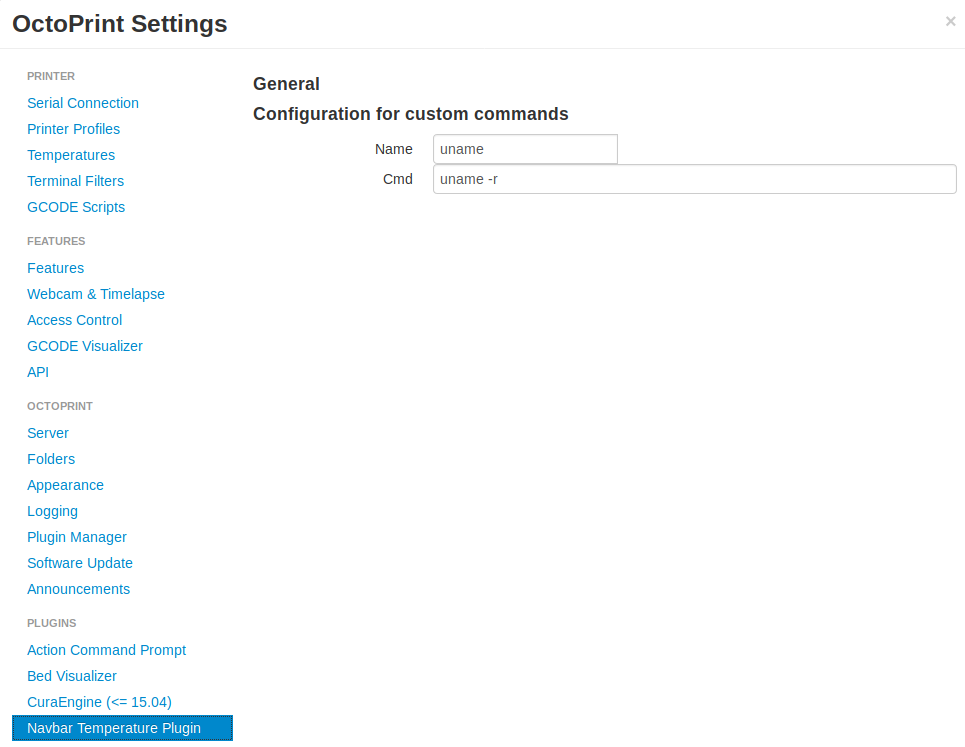
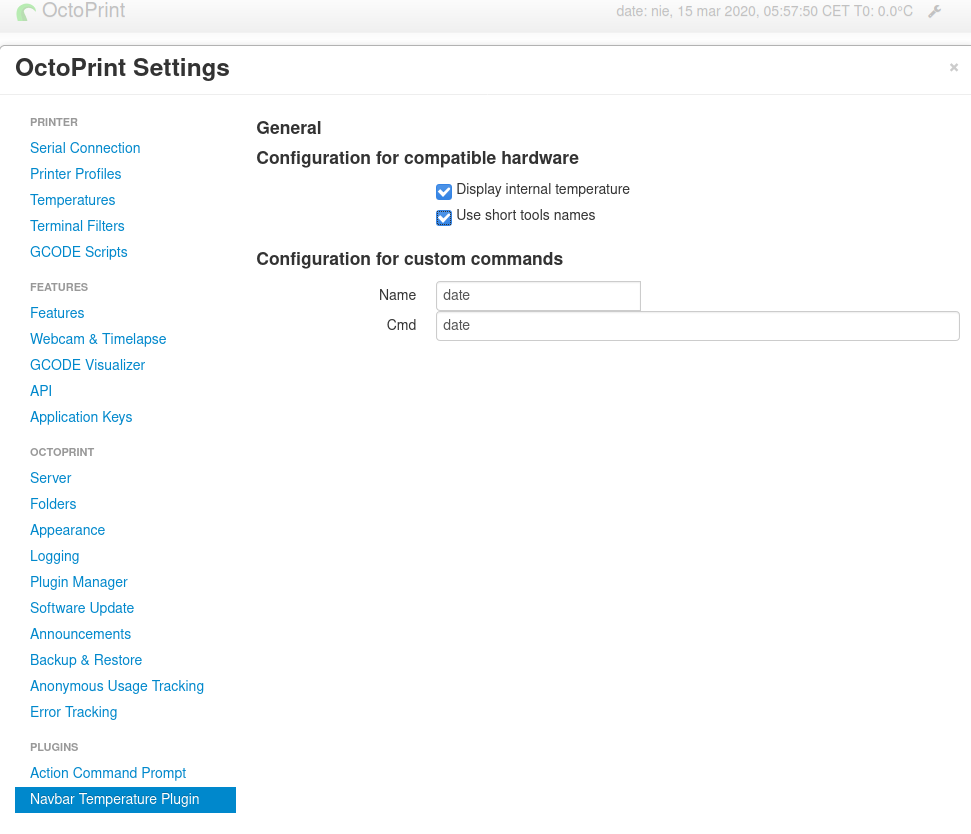
Updated img. improved debugging and display on navbar

diff --git a/octoprint_navbartemp/static/js/navbartemp.js b/octoprint_navbartemp/static/js/navbartemp.js
@@ -4,8 +4,8 @@ $(function() {
 
         self.temperatureModel = parameters[0];
         self.global_settings = parameters[1];
-        self.socTemp = ko.observable(null);
-        self.custCmd = ko.observable(null);
+        self.socTemp = ko.observable("");
+        self.custCmd = ko.observable("");
         /*
          * raspi and awinner should be combined into something like hasSoc in the python
          * source, there's no need for this part to know or care what the sbc is made of
@@ -19,16 +19,16 @@ $(function() {
 
         self.onBeforeBinding = function () {
             self.settings = self.global_settings.settings.plugins.navbartemp;
-            console.log(self.settings);
         };
 
         self.formatBarTemperature = function(toolName, actual, target) {
             if(self.settings.useShortNames()) {
                 var name = toolName.charAt(0);
+                if(name == 'T'){
+                name = 'E';
+                }
                 if(toolName.split(" ")[1]) {
                     name += toolName.split(" ")[1];
-                }else {
-                    name += "0";
                 }
             } else {
                 var name = toolName;
@@ -47,14 +47,14 @@ $(function() {
                 return;
             }
 
-            var output = ""
             if (data.soctemp) {
-                output = _.sprintf("SoC: %.1f&deg;C", data.soctemp);
+                self.socTemp(_.sprintf("SoC: %.1f&deg;C", data.soctemp));
             }
             if (data.cmd_name) {
-                output +=  _.sprintf(" %s: ", data.cmd_name) + _.sprintf("%s",data.cmd_result);
+                self.custCmd( _.sprintf(" %s: ", data.cmd_name) + _.sprintf("%s",data.cmd_result));
             }
-            self.socTemp(_.sprintf(output));
+
+
         };
 
     }

diff --git a/octoprint_navbartemp/__init__.py b/octoprint_navbartemp/__init__.py
@@ -44,11 +44,12 @@ class NavBarPlugin(octoprint.plugin.StartupPlugin,
                 self.sbc.debugMode = True
             if self.sbc.is_supported and self.displayRaspiTemp:
                 self._logger.debug("Let's start RepeatedTimer!")
-                self.startTimer(30.0)
+                interval = 5.0 if self.debugMode else 30.0
+                self.startTimer(interval)
 
         if self.cmd_name:
-            # self.updateCustom()
-            self._checkCmdTimer = RepeatedTimer(30.0, self.updateCustom, run_first=True)
+            interval = 5.0 if self.debugMode else 30.0
+            self._checkCmdTimer = RepeatedTimer(interval, self.updateCustom, run_first=True)
             self._checkCmdTimer.start()
 
         # debug mode doesn't work if the OS is linux on a regular pc
@@ -64,15 +65,14 @@ class NavBarPlugin(octoprint.plugin.StartupPlugin,
     def updateSoCTemp(self):
         temp = self.sbc.checkSoCTemp()
         self._logger.debug("match: %s" % temp)
-        cmd_rtv = self.getCustomResult()
         self._plugin_manager.send_plugin_message(self._identifier,
                                                  dict(isSupported=self.sbc.is_supported,
-                                                      soctemp=temp, cmd_result=cmd_rtv, cmd_name=self.cmd_name))
+                                                      soctemp=temp))
 
     def updateCustom(self):
         cmd_rtv = self.getCustomResult()
         self._plugin_manager.send_plugin_message(self._identifier,
-                                                 dict(isSupported=False, cmd_result=cmd_rtv, cmd_name=self.cmd_name))
+                                                 dict(cmd_result=cmd_rtv, cmd_name=self.cmd_name))
 
     def getCustomResult(self):
         cmd_rtv = None
@@ -89,7 +89,7 @@ class NavBarPlugin(octoprint.plugin.StartupPlugin,
     def get_settings_defaults(self):
         return dict(displayRaspiTemp=self.displayRaspiTemp,
                     piSocTypes=self.piSocTypes,
-                    cmd=self.cmd,
+                    cmd=None,
                     cmd_name=None
                     )
 
@@ -114,12 +114,13 @@ class NavBarPlugin(octoprint.plugin.StartupPlugin,
     ##~~ TemplatePlugin API
     def get_template_configs(self):
         try:
-            if self.sbc.is_supported:
-                return [
-                    dict(type="settings", template="navbartemp_settings_sbc.jinja2")
-                ]
-            else:
-                return [dict(type="settings", template="navbartemp_settings.jinja2")]
+            # Todo: settings have to be fixed
+            # if self.sbc.is_supported:
+            #     return [
+            #         dict(type="settings", template="navbartemp_settings_sbc.jinja2")
+            #     ]
+            # else:
+            return [dict(type="settings", template="navbartemp_settings.jinja2")]
         except:
             return []
 
